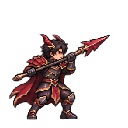
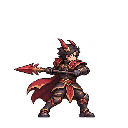
Dragon Knight v4 + v5: Dragon Fang lunge, reworked sweep with crescent trail
v4: Dragon Fang moves the knight up to fangLungeDistance (.55 u) over
fangLungeDuration (.10 s) after the contact tick when cast grounded
(PlayerState.fangLungeTime; cancelled by knockback, death, teleport, leaving
the floor). v5: six new attack_sweep frames (cross-body chest-height swing)
and a DragonSweep event for the second basic attack, drawn as a short amber
crescent instead of the straight spear line; the snapshot forwards the new
event kind to clients.

Claude-Session: https://claude.ai/code/session_01FdNBSjX3EpmvbacjATUpjx

Changed region(s): [[0.0625, 0.25, 0.875, 0.9375]]

diff --git a/Assets/Scripts/Sim/World.cs b/Assets/Scripts/Sim/World.cs
@@ -182,7 +182,7 @@ namespace AshenVale
 
             // Cancel a committed attack/leap when interrupted; no delayed hits after death/teleport.
             if (p.Hero.dragonKnight && (p.knockTime > 0 || p.climbing))
-            { p.attackPending = false; p.attackVisual = 0; p.leapActive = false; p.landVisual = 0; }
+            { p.attackPending = false; p.attackVisual = 0; p.leapActive = false; p.landVisual = p.fangLungeTime = 0; }
             Move(p, def, input, dt, !town);
             if (p.attackPending)
             {
@@ -190,6 +190,8 @@ namespace AshenVale
                 if (p.attackWindup <= 0)
                 {
                     p.attackPending = false;
+                    if (p.Hero.dragonKnight && p.lastWasSkill && p.grounded)
+                        p.fangLungeTime = Mathf.Max(0f, p.Hero.fangLungeDuration);
                     ResolveMelee(p, map, p.lastWasSkill, p.attackDamage, p.attackFacing);
                 }
             }
@@ -264,9 +266,18 @@ namespace AshenVale
                 { p.dashTime = Tuning.DashTime; p.dashCooldown = Tuning.DashCooldown; p.immunity = Mathf.Max(p.immunity, Tuning.DashImmunity); }
             }
             if (knocked) p.vx = p.knockVx;
+            else if (p.fangLungeTime > 0 && p.grounded)
+            {
+                // Integrate only the remaining lunge time, including a partial final tick.
+                float step = Mathf.Min(dt, p.fangLungeTime);
+                p.vx = p.attackFacing * Mathf.Max(0f, p.Hero.fangLungeDistance) /
+                    Mathf.Max(.001f, p.Hero.fangLungeDuration) * step / Mathf.Max(.000001f, dt);
+                p.fangLungeTime = Mathf.Max(0f, p.fangLungeTime - step);
+            }
             else if (p.leapActive) p.vx = p.leapDirection * p.Hero.leapSpeed;
             else if (p.dashTime > 0) { p.dashTime -= dt; p.vx = p.facing * Tuning.DashSpeed; }
             else p.vx = axis * p.Hero.moveSpeed * (p.crouching ? Tuning.CrouchSpeedFactor : 1f);
+            if (!p.grounded) p.fangLungeTime = 0;
             p.x = Mathf.Clamp(p.x + (p.climbing ? 0 : p.vx * dt), def.minX, def.maxX);
 
             if (p.climbing)
@@ -304,7 +315,7 @@ namespace AshenVale
         void Teleport(PlayerState p, int mapId, float x, float y)
         {
             p.attackPending = p.leapActive = false;
-            p.attackWindup = p.attackVisual = p.attackDuration = p.landVisual = 0;
+            p.attackWindup = p.attackVisual = p.attackDuration = p.landVisual = p.fangLungeTime = 0;
             bool arriving = p.map != mapId;
             p.map = mapId;
             p.ch.SeeMap(mapId);     // the world map shows every map you have been to
@@ -412,7 +423,7 @@ namespace AshenVale
         void ResolveMelee(PlayerState p, MapRuntime map, bool skill, int damage, int facing)
         {
             var hero = p.Hero;
-            events.Add(new SimEvent { kind = hero.dragonKnight ? (skill ? SimEventKind.DragonFang : SimEventKind.DragonThrust) : SimEventKind.Slash, map = map.def.id, playerId = p.id, heavy = skill, facing = facing,
+            events.Add(new SimEvent { kind = hero.dragonKnight ? (skill ? SimEventKind.DragonFang : (p.comboStep % 2 == 0 ? SimEventKind.DragonSweep : SimEventKind.DragonThrust)) : SimEventKind.Slash, map = map.def.id, playerId = p.id, heavy = skill, facing = facing,
                                       x = p.x + facing * (skill ? 1.5f : 1.1f), y = p.y + 1.1f });
             // Reach is measured to the monster's near edge, not its centre (so a wide boss can be hit from where you
             // touch it), and the weapon's height band (knees to above the head) must overlap the monster's body, so a
@@ -738,6 +749,7 @@ namespace AshenVale
 
         void Hurt(MapRuntime map, PlayerState p, MonsterState m, int damage)
         {
+            p.fangLungeTime = 0;
             p.hp -= DamageTaken(damage, p);
             p.immunity = Tuning.HitImmunity;
             p.hurtVisual = Tuning.HurtFlash;

diff --git a/Assets/Scripts/View/WorldView.cs b/Assets/Scripts/View/WorldView.cs
@@ -145,7 +145,7 @@ namespace AshenVale
             {
                 if (e.map != shownMap) continue;
                 if (e.kind == SimEventKind.Slash) SpawnSlash(e);
-                else if (e.kind == SimEventKind.DragonThrust || e.kind == SimEventKind.DragonFang || e.kind == SimEventKind.DragonFissure) SpawnDragonFx(e);
+                else if (e.kind == SimEventKind.DragonThrust || e.kind == SimEventKind.DragonFang || e.kind == SimEventKind.DragonFissure || e.kind == SimEventKind.DragonSweep) SpawnDragonFx(e);
                 else if (e.kind == SimEventKind.BossSlam) SpawnSlamRing(e);
             }
             world.events.Clear();
@@ -538,6 +538,7 @@ namespace AshenVale
         {
             bool fissure = e.kind == SimEventKind.DragonFissure;
             bool fang = e.kind == SimEventKind.DragonFang;
+            bool sweep = e.kind == SimEventKind.DragonSweep;
             var root = new GameObject(fissure ? "Wyrm Leap Fissure" : fang ? "Dragon Fang" : "Spear Thrust");
             root.transform.position = new Vector3(e.x, e.y + (fissure ? .04f : 0), 0);
             var sr = root.AddComponent<SpriteRenderer>();
@@ -554,6 +555,24 @@ namespace AshenVale
                 for (int i = -2; i <= 2; i++)
                     DragonLine(root, sr.sharedMaterial, new [] { new Vector3(i * .55f, 0, 0), new Vector3(i * .55f + .15f, .24f, 0), new Vector3(i * .55f + .08f, .38f, 0) }, .025f);
             }
+            else if (sweep)
+            {
+                // Flattened crescent at torso height, following the polearm's lateral arc.
+                var arc = new Vector3[17];
+                for (int i = 0; i < arc.Length; i++)
+                {
+                    float angle = Mathf.Lerp(-1.35f, 1.35f, i / 16f);
+                    arc[i] = new Vector3(Mathf.Cos(angle) * 1.5f - .65f,
+                        Mathf.Sin(angle) * .48f, 0);
+                }
+                DragonLine(root, sr.sharedMaterial, arc, .075f);
+                var strokes = root.GetComponentsInChildren<LineRenderer>();
+                foreach (var line in strokes)
+                {
+                    line.startWidth = .015f; line.endWidth = .075f;
+                    line.numCapVertices = 2;
+                }
+            }
             else
             {
                 float length = fang ? 2.8f : 1.6f;
@@ -566,9 +585,9 @@ namespace AshenVale
                         DragonLine(root, sr.sharedMaterial, new [] { new Vector3(-1.1f, side * .15f, 0), new Vector3(-.5f, side * .48f, 0), new Vector3(.3f, side * .35f, 0), new Vector3(.65f, side * .12f, 0) }, .07f);
                 }
             }
-            float duration = fissure ? .55f : fang ? .32f : .2f;
+            float duration = fissure ? .55f : fang ? .32f : sweep ? .16f : .2f;
             slashes.Add(new SlashFx { obj = root, sr = sr, life = duration, duration = duration,
-                direction = e.facing, x = e.x, y = e.y, dragon = fissure ? 3 : fang ? 2 : 1 });
+                direction = e.facing, x = e.x, y = e.y, dragon = fissure ? 3 : fang ? 2 : sweep ? 4 : 1 });
         }
 
         static void DragonLine(GameObject parent, Material material, Vector3[] points, float width)
@@ -611,6 +630,8 @@ namespace AshenVale
                 if (fx.dragon != 0)
                 {
                     float age = 1f - t;
+                    if (fx.dragon == 4)
+                        fx.obj.transform.rotation = Quaternion.Euler(0, 0, fx.direction * Mathf.Lerp(-15f, 15f, age));
                     float grow = Mathf.Min(1f, age * 5f);
                     fx.obj.transform.localScale = new Vector3((fx.dragon == 3 ? 1 : fx.direction) * (.25f + .75f * grow), 1, 1);
                     foreach (var line in fx.obj.GetComponentsInChildren<LineRenderer>())

diff --git a/Assets/Scripts/Sim/Entities.cs b/Assets/Scripts/Sim/Entities.cs
@@ -56,6 +56,7 @@ namespace AshenVale
         public bool attackPending, leapActive;
         public int attackFacing, attackDamage, attackSerial;
         public float leapDirection;
+        public float fangLungeTime; // grounded Dragon Fang movement after contact
         public float landVisual; // brief landing clip, canceled by an attack
         public int comboStep;
         public bool lastWasSkill;
@@ -120,7 +121,7 @@ namespace AshenVale
         public HashSet<int> hitSet;   // monster ids already hit; shared by every arrow of one volley
     }
 
-    public enum SimEventKind { Slash, MonsterHit, LevelUp, PlayerDied, BossSlam, DragonThrust, DragonFang, DragonFissure }
+    public enum SimEventKind { Slash, MonsterHit, LevelUp, PlayerDied, BossSlam, DragonThrust, DragonFang, DragonFissure, DragonSweep }
 
     // Something that happened during a tick, for the view (effects, sounds, numbers) and later for the network.
     public struct SimEvent

diff --git a/Assets/Scripts/Net/NetSession.cs b/Assets/Scripts/Net/NetSession.cs
@@ -332,7 +332,7 @@ namespace AshenVale
         public void HostAfterTicks(float dt)
         {
             if (CurrentRole != Role.Host || !handlersRegistered) return;
-            foreach (var e in world.events) if (e.kind == SimEventKind.Slash || e.kind == SimEventKind.BossSlam || e.kind == SimEventKind.DragonThrust || e.kind == SimEventKind.DragonFang || e.kind == SimEventKind.DragonFissure) pendingEvents.Add(e);
+            foreach (var e in world.events) if (e.kind == SimEventKind.Slash || e.kind == SimEventKind.BossSlam || e.kind == SimEventKind.DragonThrust || e.kind == SimEventKind.DragonFang || e.kind == SimEventKind.DragonFissure || e.kind == SimEventKind.DragonSweep) pendingEvents.Add(e);
             snapshotTimer += dt;
             characterTimer += dt;
             if (snapshotTimer >= SnapshotInterval)

diff --git a/Assets/Scripts/Data/HeroDefs.cs b/Assets/Scripts/Data/HeroDefs.cs
@@ -10,6 +10,7 @@ namespace AshenVale
         public AttackStyle style;
         public int baseHp, baseMp;
         public bool dragonKnight;
+        public float fangLungeDistance = .55f, fangLungeDuration = .10f;
         public float basicWindup = .12f, skillWindup = .23f;
         public int leapManaCost = 15, leapBonus = 12;
         public float leapCooldown = 1.1f, leapSpeed = 7f, leapJumpSpeed = 10f;
